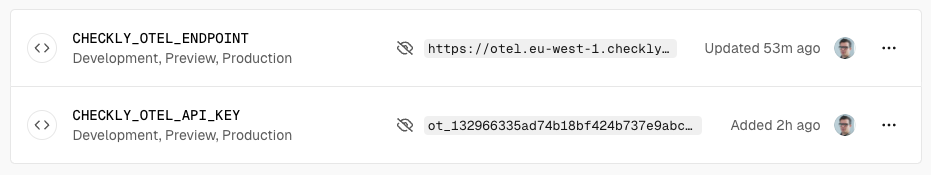
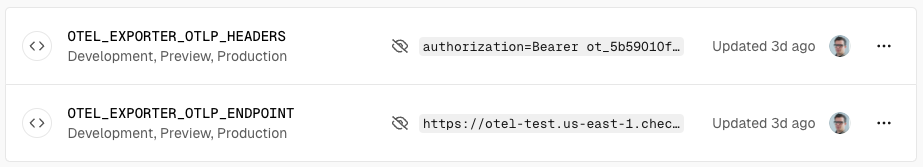
docs: small tweaks

diff --git a/site/content/docs/open-telemetry/instrumenting-code/nextjs.md b/site/content/docs/open-telemetry/instrumenting-code/nextjs.md
@@ -55,10 +55,6 @@ import { trace } from '@opentelemetry/api'
 
 const checklyExporter = new OTLPTraceExporter({
     timeoutMillis: 2000,
-    url: process.env.CHECKLY_OTEL_ENDPOINT,
-    headers: {
-        Authorization: `Bearer ${process.env.CHECKLY_OTEL_API_KEY}`
-    },
 })
 
 // export spans to console (useful for debugging)
@@ -84,7 +80,7 @@ export function register() {
 }
 ```
 
-Note the `sampler` configuration. This is a custom, **head-based sampler** that will only sample spans that are generated by Checkly by
+Notice the `sampler` configuration. This is a custom, **head-based sampler** that will only sample spans that are generated by Checkly by
 inspecting the trace state. This way you only pay for the egress traffic generated by Checkly and not for any other traffic.
 
 ## Step 3: Start your app with the instrumentation

diff --git a/site/content/docs/open-telemetry/sending-traces/newrelic.md b/site/content/docs/open-telemetry/sending-traces/newrelic.md
@@ -14,7 +14,7 @@ beta: true
 
 1. Make sure you have the **Traces** feature enabled in your New Relic account.
 2. Create an *Ingest - License* type API key in the **Administration** > **API keys** section.
-3. Grab the right endpoint URL for your New Relic account. It should look like `https://otlp.nr-data.net`.
+3. Grab the right endpoint URL for your New Relic account. It should look like `https://otlp.nr-data.net/v1/traces`.
    Check [the full list of all New Relic OTel endpoints](https://docs.newrelic.com/docs/more-integrations/open-source-telemetry-integrations/opentelemetry/get-started/opentelemetry-set-up-your-app/#ports-and-endpoints).
 4. Add the endpoint and the API key to the Checkly integration settings. The API key is added as an HTTP header named
    `api-key` with the value of your API key.

diff --git a/site/content/docs/open-telemetry/sending-traces/honeycomb.md b/site/content/docs/open-telemetry/sending-traces/honeycomb.md
@@ -12,7 +12,7 @@ menu:
 beta: true
 ---
 
-1. Grab the relevant API endpoint from [the Honeycomb documentation](https://docs.honeycomb.io/send-data/opentelemetry/#using-the-honeycomb-opentelemetry-endpoint). It should look like `https://api.honeycomb.io/`.
+1. Grab the relevant API endpoint from [the Honeycomb documentation](https://docs.honeycomb.io/send-data/opentelemetry/#using-the-honeycomb-opentelemetry-endpoint). It should look like `https://api.honeycomb.io/v1/traces`.
 2. Grab your Honeycomb Ingest API key from the **Account** > **Team settings** > **Environments and API keys** section.
 3. Add the endpoint the Checkly integration settings and provide the API key as an HTTP header `x-honeycomb-team` with
    the value of your API key.

diff --git a/site/content/docs/open-telemetry/instrumenting-code/nodejs.md b/site/content/docs/open-telemetry/instrumenting-code/nodejs.md
@@ -68,7 +68,7 @@ process.on('SIGTERM', () => {
 })
 ```
 
-Note the `sampler` configuration. This is a custom, **head-based sampler** that will only sample spans that are generated by Checkly by
+Notice the `sampler` configuration. This is a custom, **head-based sampler** that will only sample spans that are generated by Checkly by
 inspecting the trace state. This way you only pay for the egress traffic generated by Checkly and not for any other traffic.
 
 ## Step 3: Start your app with the instrumentation
